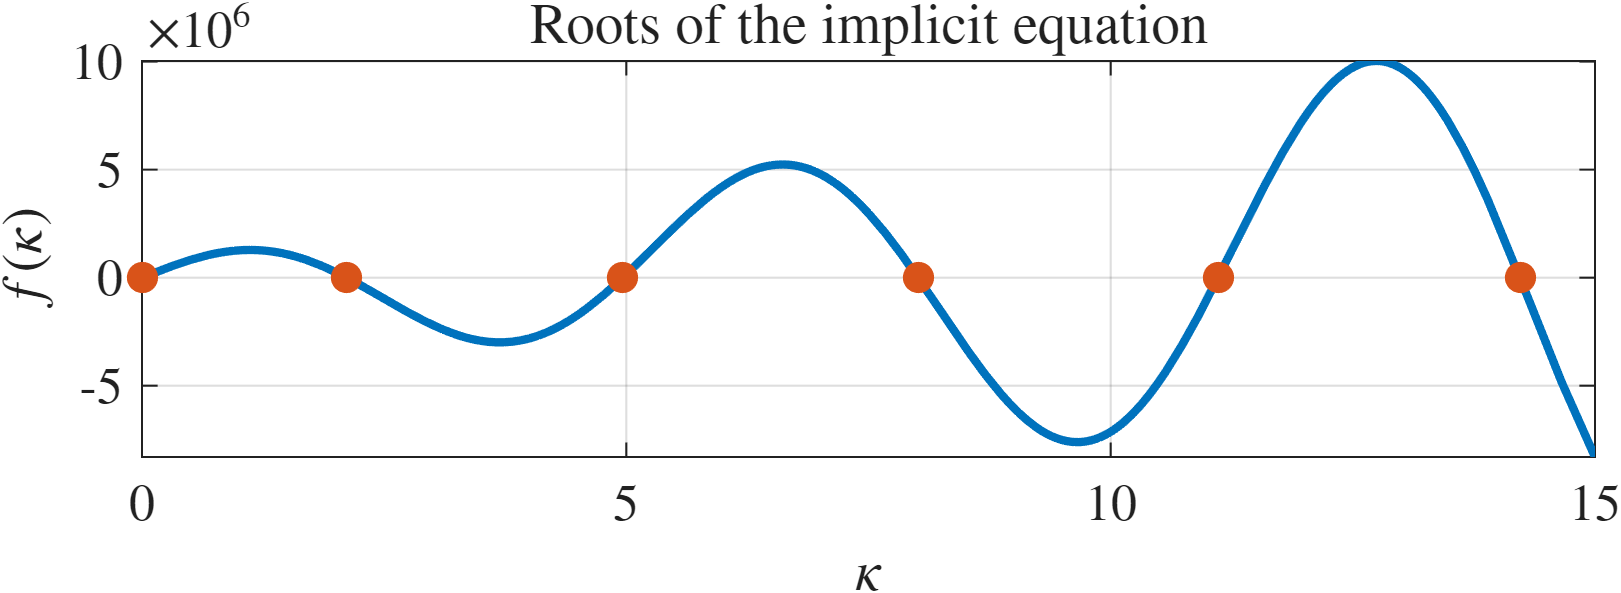
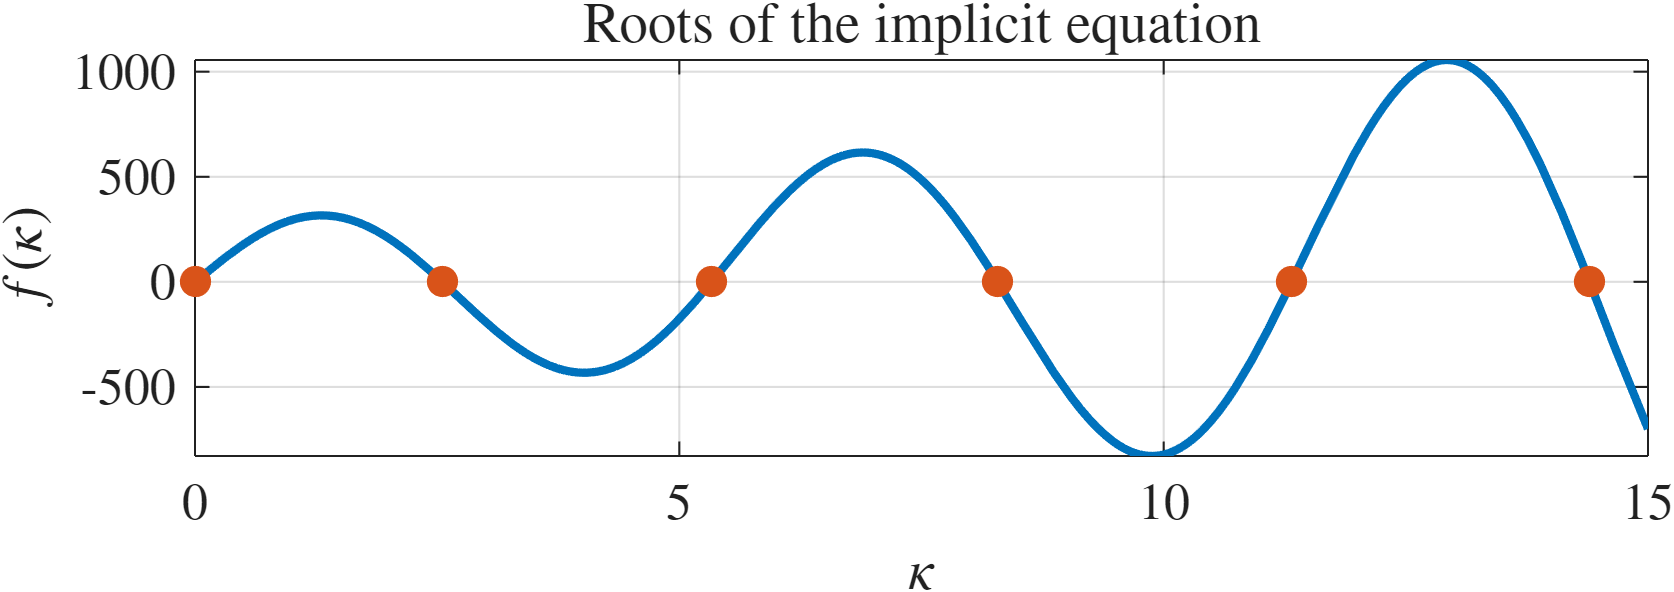
Refactor DVI1_008 code: update parameters and improve plots for q1.m and q2.m

diff --git a/Technion/DVI1/DVI1_008/code/q2.m b/Technion/DVI1/DVI1_008/code/q2.m
@@ -1,85 +1,130 @@
 clc; clear; close all;
 
-% Parameters
-EI = 41.67; % N/m^2
-rho = 8000; % kg/m^3
-A = 0.0001; % m^2
-L = 1; % m
-k = 100; % N/m
-kt = 100; % N*m/rad
+%% Solve the characteristic equation for beta
 
-c = sqrt(EI / (rho * A));
+syms beta L EI k kt
 
-% Define the function for finding roots
-f = @(beta) -2 * beta.^3 .* (beta * EI .* cos(beta * L) + kt * sin(beta * L)) .* (beta.^3 * EI .* cos(beta * L) + beta.^3 * EI .* cosh(beta * L) + k * sin(beta * L));
+% Boundary conditions
+% X(0) = 0
+% X''(0) = 0
+% EI * X'''(L) - k * X(L) = 0
+% EI * X''(L) + kt * X'(L) = 0
+BCM = @(beta) [1, 0, 1, 0;
+    -beta^2, 0, beta^2, 0;
+    beta^3 * EI * sin(beta * L) - k * cos(beta * L),...
+    -beta^3 * EI * cos(beta * L) - k * sin(beta * L),...
+    beta^3 * EI * sinh(beta * L) - k * cosh(beta * L),...
+    beta^3 * EI * cosh(beta * L) - k * sinh(beta * L);
+
+    -beta^2 * EI * cos(beta * L) - beta * kt * sin(beta * L),...
+    -beta^2 * EI * sin(beta * L) + beta * kt * cos(beta * L),...
+    beta^2 * EI * cosh(beta * L) + beta * kt * sinh(beta * L),...
+    beta^2 * EI * sinh(beta * L) + beta * kt * cosh(beta * L)];
+
+characteristic_eq = @(beta) det(BCM(beta));
+
+% Solve the characteristic equation for given values of EI, k, kt, and L
+EI_val = 41.67; % N/m^2
+k_val = 100; % N/m
+kt_val = 100; % N*m/rad
+L_val = 1; % m
+
+% Substitute the values into the characteristic equation
+characteristic_eq_numeric = @(beta) arrayfun(@(b) double(subs(characteristic_eq(b), {EI, k, kt, L}, {EI_val, k_val, kt_val, L_val})), beta);
 
 % Find the first 6 roots
-beta_roots = [];
+beta_roots = NaN(6, 1);
+root_count = 0;
 for beta0 = linspace(0, 15, 100)
     try
-        root = fzero(f, beta0);
-        if isempty(beta_roots) || all(abs(beta_roots - root) > 1e-3)
-            beta_roots = [beta_roots; root];
+        root = fzero(characteristic_eq_numeric, beta0);
+        if root >= 0 && all(abs(beta_roots(1:root_count) - root) > 1e-3)
+            root_count = root_count + 1;
+            beta_roots(root_count) = root;
         end
-        if length(beta_roots) >= 6
+        if root_count >= 6
             break;
         end
     catch
         % Ignore errors due to fzero not converging
     end
 end
-beta_roots = unique(beta_roots);
+beta_roots = unique(beta_roots(~isnan(beta_roots)));
 beta_roots = beta_roots(1:min(6, length(beta_roots)));
 
-% Plot the function and the roots
+% Display the roots
+disp('Beta roots:');
+disp(beta_roots);
+
+%% Plot the function and the roots
+
+beta_range = linspace(0, 15, 1000);
 colors = get(groot, 'DefaultAxesColorOrder');
-fplot(f, [0, 15], 'LineWidth', 2);
+semilogy(beta_range, abs(characteristic_eq_numeric(beta_range)), 'LineWidth', 2);
 hold on;
-plot(beta_roots, zeros(1, length(beta_roots)), 'o', 'MarkerSize', 6, 'MarkerFaceColor', colors(2, :), 'MarkerEdgeColor', colors(2, :));
+for i = 1:length(beta_roots)
+    xline(beta_roots(i), 'k--', 'LineWidth', 1);
+end
 grid on;
 xlabel('$\beta$');
 ylabel('$f(\beta)$');
 title('Roots of the implicit equation for $\beta$');
 
-set(gcf, 'units', 'pixels', 'position', [100, 100, 600, 200]);
-% exportgraphics(gcf, 'q2.png', 'Resolution', 300);
+set(gcf, 'units', 'pixels', 'position', [100, 100, 600, 300]);
+exportgraphics(gcf, 'q2.png', 'Resolution', 300);
 
 % Display the roots
 disp('Beta roots:');
 disp(beta_roots);
+
+%% Calculate the natural frequencies and mode shapes
+
+% Parameters
+rho_val = 8000; % kg/m^3
+A_val = 0.0001; % m^2
+c = sqrt(EI_val / (rho_val * A_val));
+
+BCM_num = @(beta) double(subs(BCM(beta), {EI, k, kt, L}, {EI_val, k_val, kt_val, L_val}));
+
+% Ignore roots that are too close to zero
+beta_roots = beta_roots(beta_roots > 1e-3);
 
 % Calculate the natural frequencies
 natural_frequencies = beta_roots.^2 * c;
 disp('Natural frequencies:');
 disp(natural_frequencies);
 
-BCM = @(beta) [1, 0, 1, 0;
-    -beta^2, 0, beta^2, 0;
-    beta^3 * EI * sin(beta * L) - k * cos(beta * L), -beta^3 * EI * cos(beta * L) - k * sin(beta * L), beta^3 * EI * sinh(beta * L) - k * cosh(beta * L), -beta^3 * EI * cosh(beta * L) - k * sinh(beta * L);
-    -beta^2 * EI * cos(beta * L) - beta * kt * sin(beta * L), -beta^2 * EI * cos(beta * L) - beta * kt * sin(beta * L), -beta^2 * EI * cosh(beta * L) - beta * kt * sin(beta * L), -beta^2 * EI * cosh(beta * L) - kt * sinh(beta * L)];
-
-BCM(beta_roots(3))
-
-% Solve BCM * C = 0
-C = zeros(4, length(beta_roots));
 for i = 1:length(beta_roots)
     beta = beta_roots(i);
-    C(:, i) = null(BCM(beta));
+    bcm_matrix = BCM_num(beta);
+    disp(['BCM for beta = ', num2str(beta)]);
+    disp(bcm_matrix);
+    disp(['Rank: ', num2str(rank(bcm_matrix))]);
+end
+
+% Solve BCM * C = 0
+C = ones(4, length(beta_roots));
+for i = 1:length(beta_roots)
+    beta = beta_roots(i);
+    % i
+    % null(BCM(beta))
+    null_space = null(BCM_num(beta));
+    C(:, i) = null_space(:, 1);
 end
 
 % Plot the mode shapes
 figure;
 for i = 1:length(beta_roots)
     beta = beta_roots(i);
-    x = linspace(0, L, 100);
+    x = linspace(0, L_val, 100);
     y = C(1, i) * cos(beta .* x) + C(2, i) * sin(beta .* x) + C(3, i) * cosh(beta .* x) + C(4, i) * sinh(beta .* x);
     subplot(2, 3, i);
     plot(x, y, 'LineWidth', 2);
     grid on;
-    xlabel('x');
-    ylabel(['$\phi_', num2str(i), '(x)$']);
-    title(['$\omega = ', num2str(natural_frequencies(i), '%.5g'), '$ rad/s']);
+    xlabel('$x$');
+    ylabel(['$X_', num2str(i), '(x)$']);
+    title(['$\omega_{', num2str(i), '} = ', num2str(natural_frequencies(i), '%.5g'), '$ rad/s'], 'Interpreter', 'latex');
 end
 
 set(gcf, 'units', 'pixels', 'position', [100, 100, 1200, 600]);
-% exportgraphics(gcf, 'q2_modes.png', 'Resolution', 300);
+exportgraphics(gcf, 'q2_modes.png', 'Resolution', 300);

diff --git a/Technion/DVI1/DVI1_008/code/q1.m b/Technion/DVI1/DVI1_008/code/q1.m
@@ -3,12 +3,12 @@ clc; clear; close all;
 %% Part a
 
 % Parameters
-d = 0.1; % m
+d = 0.01; % m
 L = 1; % m
 J = pi * d^4 / 32; % m^4
 G = 80 * 10^9; % Pa
-k_N = 10^6; % N/m
-rho = 7850; % kg/m^3
+k_N = 300; % N/rad
+rho = 8000; % kg/m^3
 I = rho * pi * d^4 /32; % kg/m^2
 
 c = sqrt(G/rho);
@@ -47,7 +47,7 @@ ylabel('$f(\kappa)$');
 title('Roots of the implicit equation');
 
 set(gcf, 'units', 'pixels', 'position', [100, 100, 600, 200]);
-% exportgraphics(gcf, 'q1.png', 'Resolution', 300);
+exportgraphics(gcf, 'q1.png', 'Resolution', 300);
 
 % Calculate the natural frequencies
 natural_frequencies = kappa_roots * c;
@@ -64,11 +64,11 @@ for i = 1:length(kappa_roots)
     grid on;
     xlabel('$x$');
     ylabel(['$X_', num2str(i), '(x)$']);
-    title(['Mode shape for $\omega = ', num2str(natural_frequencies(i), '%.5g'), '$ rad/s']);
+    title(['$\omega_{', num2str(i) ,'} = ', num2str(natural_frequencies(i), '%.5g'), '$ rad/s']);
 end
 
 set(gcf, 'units', 'pixels', 'position', [100, 100, 1200, 600]);
-% exportgraphics(gcf, 'q1_modes.png', 'Resolution', 300);
+exportgraphics(gcf, 'q1_modes.png', 'Resolution', 300);
 
 %% Part b
 
@@ -110,5 +110,5 @@ ylabel('$\theta_0$');
 title('Frequency Response at $x = L$');
 legend('Location', 'best');
 
-set(gcf, 'units', 'pixels', 'position', [100, 100, 600, 400]);
+set(gcf, 'units', 'pixels', 'position', [100, 100, 800, 600]);
 exportgraphics(gcf, 'q1f.png', 'Resolution', 300);

diff --git a/Technion/DVI1/DVI1_008 רטט במערכות רציפות.md b/Technion/DVI1/DVI1_008 רטט במערכות רציפות.md
@@ -159,10 +159,13 @@ $$\begin{aligned}
 
 לצורך הגרפים, אנו מניחים:
 $$\begin{aligned}
- & d=\pu{0.1m},\,  &  &  G=\pu{80GPa}, \\[1ex]
- & \rho=\pu{7850kg.m^{-3}},\,  &  & L=\pu{1m} \\[1ex]
- & k=\pu{10e6N.m^{-1}}
+ & d=\pu{0.01m},\,  &  &  G=\pu{80GPa}, \\[1ex]
+ & \rho=\pu{8000kg.m^{-3}},\,  &  & L=\pu{1m} \\[1ex]
+ & {k}_{n}=\pu {300N.rad^{-1}}
 \end{aligned}$$
+
+הקוד לפתרון נמצא ב[GitHub](https://github.com/NuclearGandhi/technion_second_brain/blob/master/Technion/DVI1/DVI1_008/code/q1.m).
+
 ### סעיף א'
 מצאו מודים ותדרים עצמיים באופן אנליטי.
 
@@ -220,12 +223,12 @@ $$f(x):=\kappa G{J}_{}\cos(\kappa L)+{k}_{N}\sin(\kappa L)=0$$
 >הצגה גרפית של הפונקציה הסתומה וחיתוכה עם ציר ה-$x$ - הפתרונות שלה.
 
 נוכל כעת למצוא את התדרים הטבעיים ע"י הצבה ב- ${\omega}_{n}={\kappa}_{n}c$. עבור ששת המודים הראשונים, התדרים הטבעיים:
-$${\omega}_{n}=\{0,\, 0.6746,\, 1.5845,\, 2.5576,\, 3.5466,\, 4.5416\}\cdot 10^{4} \,\pu{rad/s}$$
+$${\omega}_{n}=\{0,\, 0.8072,\, 1.6867,\, 2.6202,\, 3.5800,\, 4.5526\}\cdot 10^{4} \,\pu{rad/s}$$
 
 למעשה קיבלנו ש- $X(x)$ הם מודים מתאימים לתדרים העצמיים המתאימים. כלומר $X(x)$ הם המודים (הפונקציות העצמיות) וכל מוד יתקבל ע"י הצבת (עד כדי הכפלה בקבוע):
 $${X}_{n}=\sin({\kappa}_{n}x)$$
 ![[q1_modes.png|bookhue]]
->הפונקציות העצמיות/המודים של המערכת הנ"ל.
+>הפונקציות/המודים העצמיים של המערכת הנ"ל.
 
 ### סעיף ב'
 כעת נניח שפועל מומנט מפורס $\mu(x,t)$ ומומנט מרוכז בקצה ב- $x=L$. חשבו מודים מנורמלי מסה.
@@ -243,7 +246,7 @@ $$\begin{aligned}
  & =\sqrt{ \dfrac{2}{\rho J} }\left[ L-\dfrac{1}{{\kappa}_{n}}\sin({\kappa}_{n}L)\cos({\kappa}_{n}L) \right]^{-1/2}
 \end{aligned}$$
 לכן לכל מוד נקבל בהתאמה:
-$${B}_{n}=\{\mathrm{NaN},\, 4.6327,\, 4.9751,\, 5.0457,\, 5.0685,\,  5.0784 \}$$
+$${B}_{n}=\{\mathrm{NaN},\, 464.35,\, 483.62,\, 493.43,\, 498.01,\,  500.34 \}$$
 כאשר ${B}_{0}$ לא באמת מוגדר כי הוא פשוט המוד הטריוויאלי ${X}_{0}=0$.
 
 ### סעיף ג'
@@ -370,6 +373,14 @@ $$\arg({{{\omega}_{n}}}^{2}-\omega ^{2}+2i{\zeta}_{n}{\omega}_{n}\omega)=\arctan
 
 הנחות אלו לא תקפות אם השקיעות גדולות ביחס לעובי, או אם למשל אורך הקורה קטן - קורות שאינן שלוחות ביחס לעובי.
 
+נתונים לסימולציות:
+$$\begin{aligned}
+ & \rho=\pu{8000kg.m^{-3}}, &  & A=\pu{10e-4m^{2}} \\[1ex]
+ & L=\pu{1m}, &  & EI=\pu{41.67N.m^{2}}, \\[1ex]
+ & k=\pu{100N.m}, &  & {k}_{t}=\pu{100N.m}
+\end{aligned}$$
+
+הקוד לפתרון נמצא ב[GitHub](https://github.com/NuclearGandhi/technion_second_brain/blob/master/Technion/DVI1/DVI1_008/code/q2.m).
 ### סעיף א'
 מצאו את המודים והתדרים הטבעיים של המערכת.
 
@@ -405,9 +416,12 @@ $$EIX''(L)+{k}_{t}X'(L)=0$$
 לכן הבעית שטורם-ליוביל היא:
 $$\begin{aligned}
  & X^{(4)}-\beta^{4}X=0 \\[1ex]
- & EI{X}_{x x x}(L)-kX(L)=0 \\[1ex]
+ & X(0)=X''(0)=0  \\[1ex]
+& EI{X}'''(L)-kX(L)=0 \\[1ex]
  & EIX''(L)+{k}_{t}X'(L)=0
 \end{aligned}$$
+
+$$2\,\beta ^3\,\left(k\,\mathrm{kt}\,\mathrm{cosh}\left(L\,\beta \right)\,\sin\left(L\,\beta \right)-k\,\mathrm{kt}\,\cos\left(L\,\beta \right)\,\mathrm{sinh}\left(L\,\beta \right)+{\mathrm{EI}}^2\,\beta ^4\,\cos\left(L\,\beta \right)\,\mathrm{sinh}\left(L\,\beta \right)-{\mathrm{EI}}^2\,\beta ^4\,\mathrm{cosh}\left(L\,\beta \right)\,\sin\left(L\,\beta \right)+2\,\mathrm{EI}\,\beta \,k\,\sin\left(L\,\beta \right)\,\mathrm{sinh}\left(L\,\beta \right)+2\,\mathrm{EI}\,\beta ^3\,\mathrm{kt}\,\cos\left(L\,\beta \right)\,\mathrm{cosh}\left(L\,\beta \right)\right)$$
 
 נפתור את המד"ר לפי [[DEQ1_006 משוואות לינאריות הומוגניות מסדר גבוה#אלגוריתם משוואה לינארית עם מקדמים קבועים|מד"ר עם מקדמים קבועים]]:
 $$\begin{gathered}
@@ -421,7 +435,7 @@ $$\begin{pmatrix}
 1 & 0 & 1 & 0 \\
 -\beta ^{2} & 0 & \beta ^{2} & 0 \\[1ex]
 \beta ^{3}EI\sin(\beta L)-k\cos(\beta L) & \cdots  & \ddots  & \vdots  \\
--\beta ^{3}EI\cos(\beta L)-\beta {k}_{t}\sin(\beta L) & \cdots  & \cdots  & 
+-\beta ^{2}EI\cos(\beta L)-\beta {k}_{t}\sin(\beta L) & \cdots  & \cdots  & 
 \end{pmatrix}\begin{pmatrix}
 {c}_{1} \\
 {c}_{2} \\
@@ -434,18 +448,28 @@ $$\begin{pmatrix}
 0
 \end{pmatrix}$$
 
-אנו לא מעוניינים בפתרונות טריוויאליים, לכן כדי למצוא תנאי על $\beta$ נאפס את הדטרמיננטה:
-$$-2\beta ^{3}[\beta EI\cos(\beta L)+{k}_{t}\sin(\beta L)][\beta ^{3}EI\cos(\beta L)+\beta ^{3}EI\cosh(\beta L)+k\sin(\beta L)]=0$$
+אנו לא מעוניינים בפתרונות טריוויאליים, לכן כדי למצוא תנאי על $\beta$ נאפס את הדטרמיננטה. נקבל פונקציה סתומה עבור $\beta$, שהיא די ארוכה:
+$$2\beta ^{3}[\beta EI\cos(\beta L)+\dots ]=0$$
+נשים לב ש-$\beta=0$ הוא אחד מהפתרונות, אבל ניתן לראות שפתרון כזה נותן את הפתרון הטריוויאלי (אם נציב בחזרה במד"ר). את שאר ה-$\beta$ נמצא נומרית. אם רוצים גרפית, נמצא כי:
+![[q2.png|bookhue|600]]
+>גרף לוגריתמי של הפונקציה הסתומה. כל ירידה חדה של הפונקציה למטה היא למעשה שורש, כי אמנם קשה לראות את זה, אבל זה אסימפטוטה אנכית.
 
-נשים לב ש-$\beta=0$ הוא אחד מהפתרונות, אבל ניתן לראות שפתרון כזה נותן את הפתרון הטריוויאלי. את שאר ה-$\beta$ נמצא נומרית. אם רוצים גרפית, נמצא כי:
->[!TODO] TODO: להשלים
+כדי למצוא את התדרים העצמיים, נזכור ש- $\omega=\beta ^{2}c$.
 
-כעת עלינו למצוא את המודים (אופני התנודה). נמצא את המקדמים ${c}_{1},{c}_{2},{c}_{3},{c}_{4}$ ע"י הצבת ערך עצמי $\beta$ במטריצת תנאי השפה ופתירת מערכת המשוואות עבור ${c}_{1},{c}_{2},{c}_{3},{c}_{4}$ או לחילופין. נמצא את *גרעין* מטריצת תנאי השפה. ב-`MATLAB` עושים זאת ע"י הפקודה `null(BCM(beta))` כאשר `beta` היא התדירות העצמית שאנו מעוניינים בה ו-`BCM` היא מטריצת התנאי שפה.
+כעת עלינו למצוא את המודים (אופני התנודה). נמצא את המקדמים ${c}_{1},{c}_{2},{c}_{3},{c}_{4}$ ע"י הצבת הערך העצמי $\beta$ במטריצת תנאי השפה ופתירת מערכת המשוואות עבור ${c}_{1},{c}_{2},{c}_{3},{c}_{4}$. נזכור שקבוצת מקדמים כזאת נכונה *עבור ${\beta}_{n}$ מסוים*.
 
-המודים העצמיים (שלא מנורמלי מסה):
-$$\tilde{X}_{n}(x)=A[{c}_{1n}\cos({\beta}_{n}x)+{c}_{2}\sin(\beta _{n}x)+\dots ]$$
-הצורה שלהם, כאשר $A=1$ היא:
->[!TODO] TODO: להשלים
+>[!Question]- איך עושים ב-`MATLAB`? 
+ >נמצא את *גרעין* מטריצת תנאי השפה. ב-`MATLAB` עושים זאת ע"י הפקודה `null(BCM(beta))` כאשר `beta` היא התדירות העצמית שאנו מעוניינים בה ו-`BCM` היא מטריצת התנאי שפה:
+ >```matlab
+ >C=null(BCM(beta))
+ >```
+
+ בנוסף, אין קבוצת ${c}_{1},{c}_{2},{c}_{3},{c}_{4}$ יחידה עבור $\beta$ מסוים, אלא יש אינסוף כאלה - הם נכונים עד כפל בקבוע. לכן נוכל לרשום את המודים העצמיים (שלא מנורמלי מסה):
+$$\tilde{X}_{n}(x)=A[{c}_{1n}\cos({\beta}_{n}x)+{c}_{2n}\sin(\beta _{n}x)+\dots]$$
+כאשר $A$ הוא קבוע שרירותי.
+הצורה שלהם (אם למשל $A=1$):
+![[q2_modes.png|bookhue]]
+>צורת המודים העצמיים של המערכת (עד מוד $5$).
 
 ### סעיף ב'
 חשבו את המודים המנורמלי מסה.
